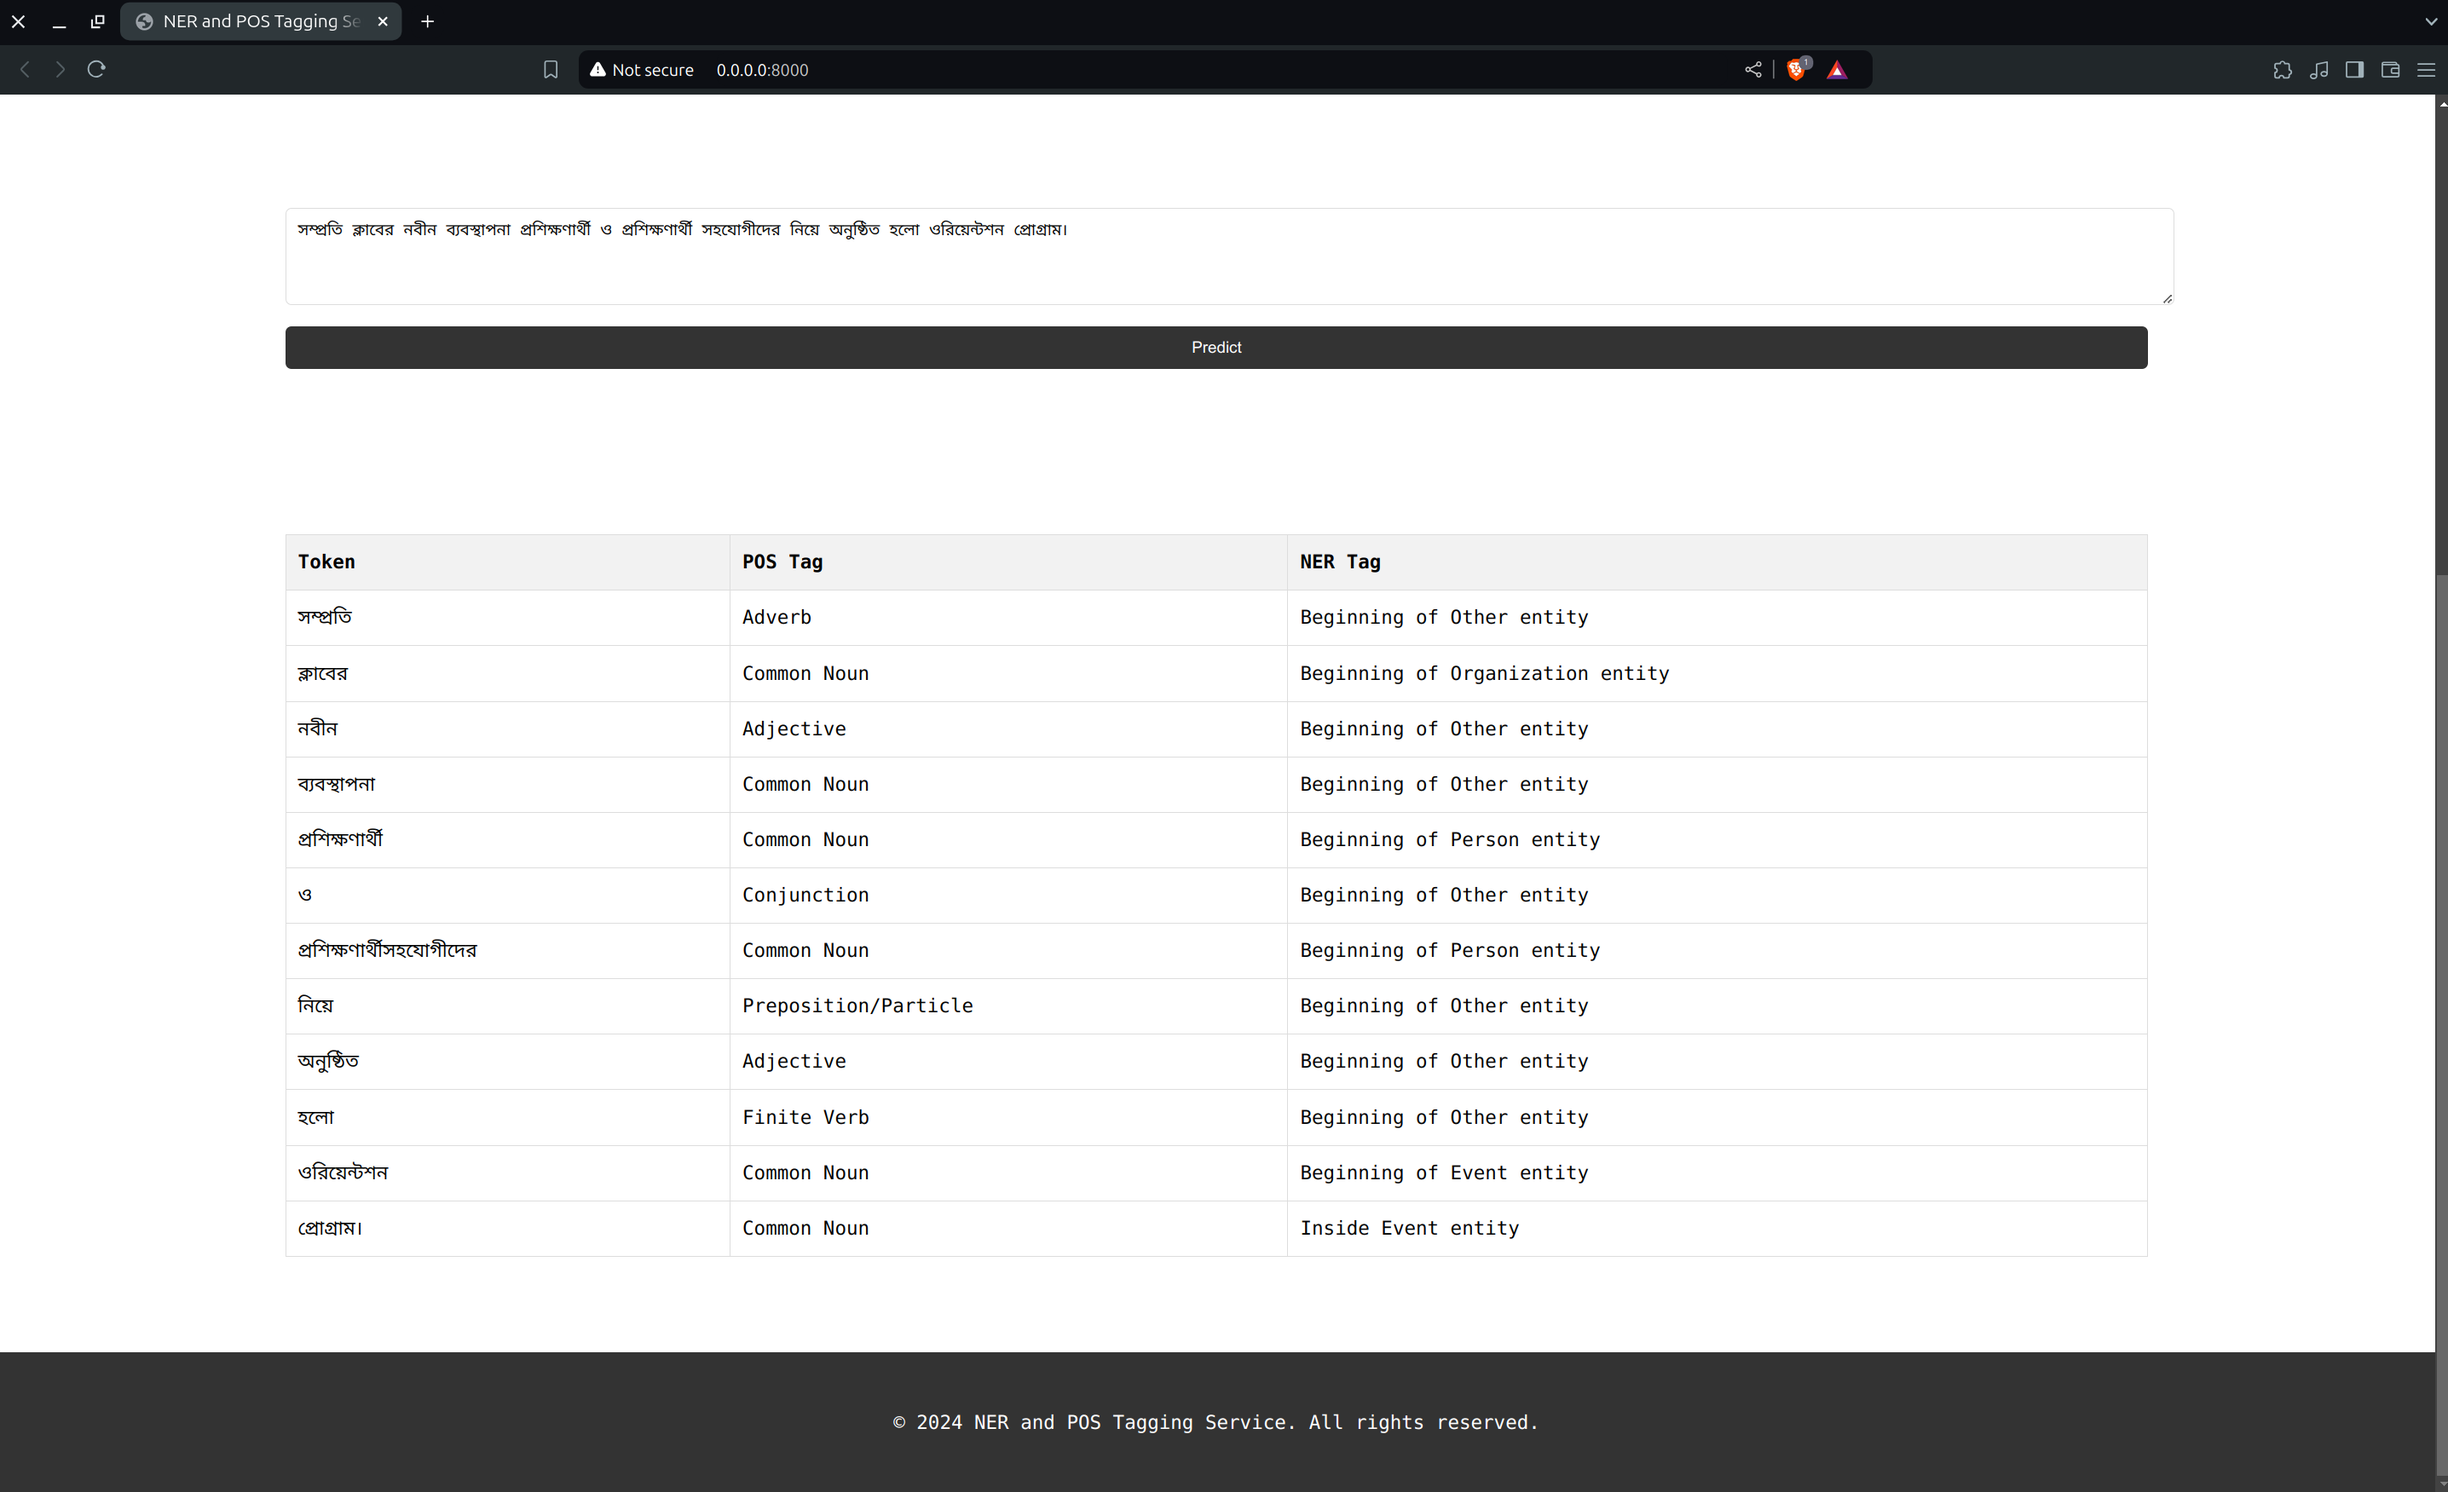
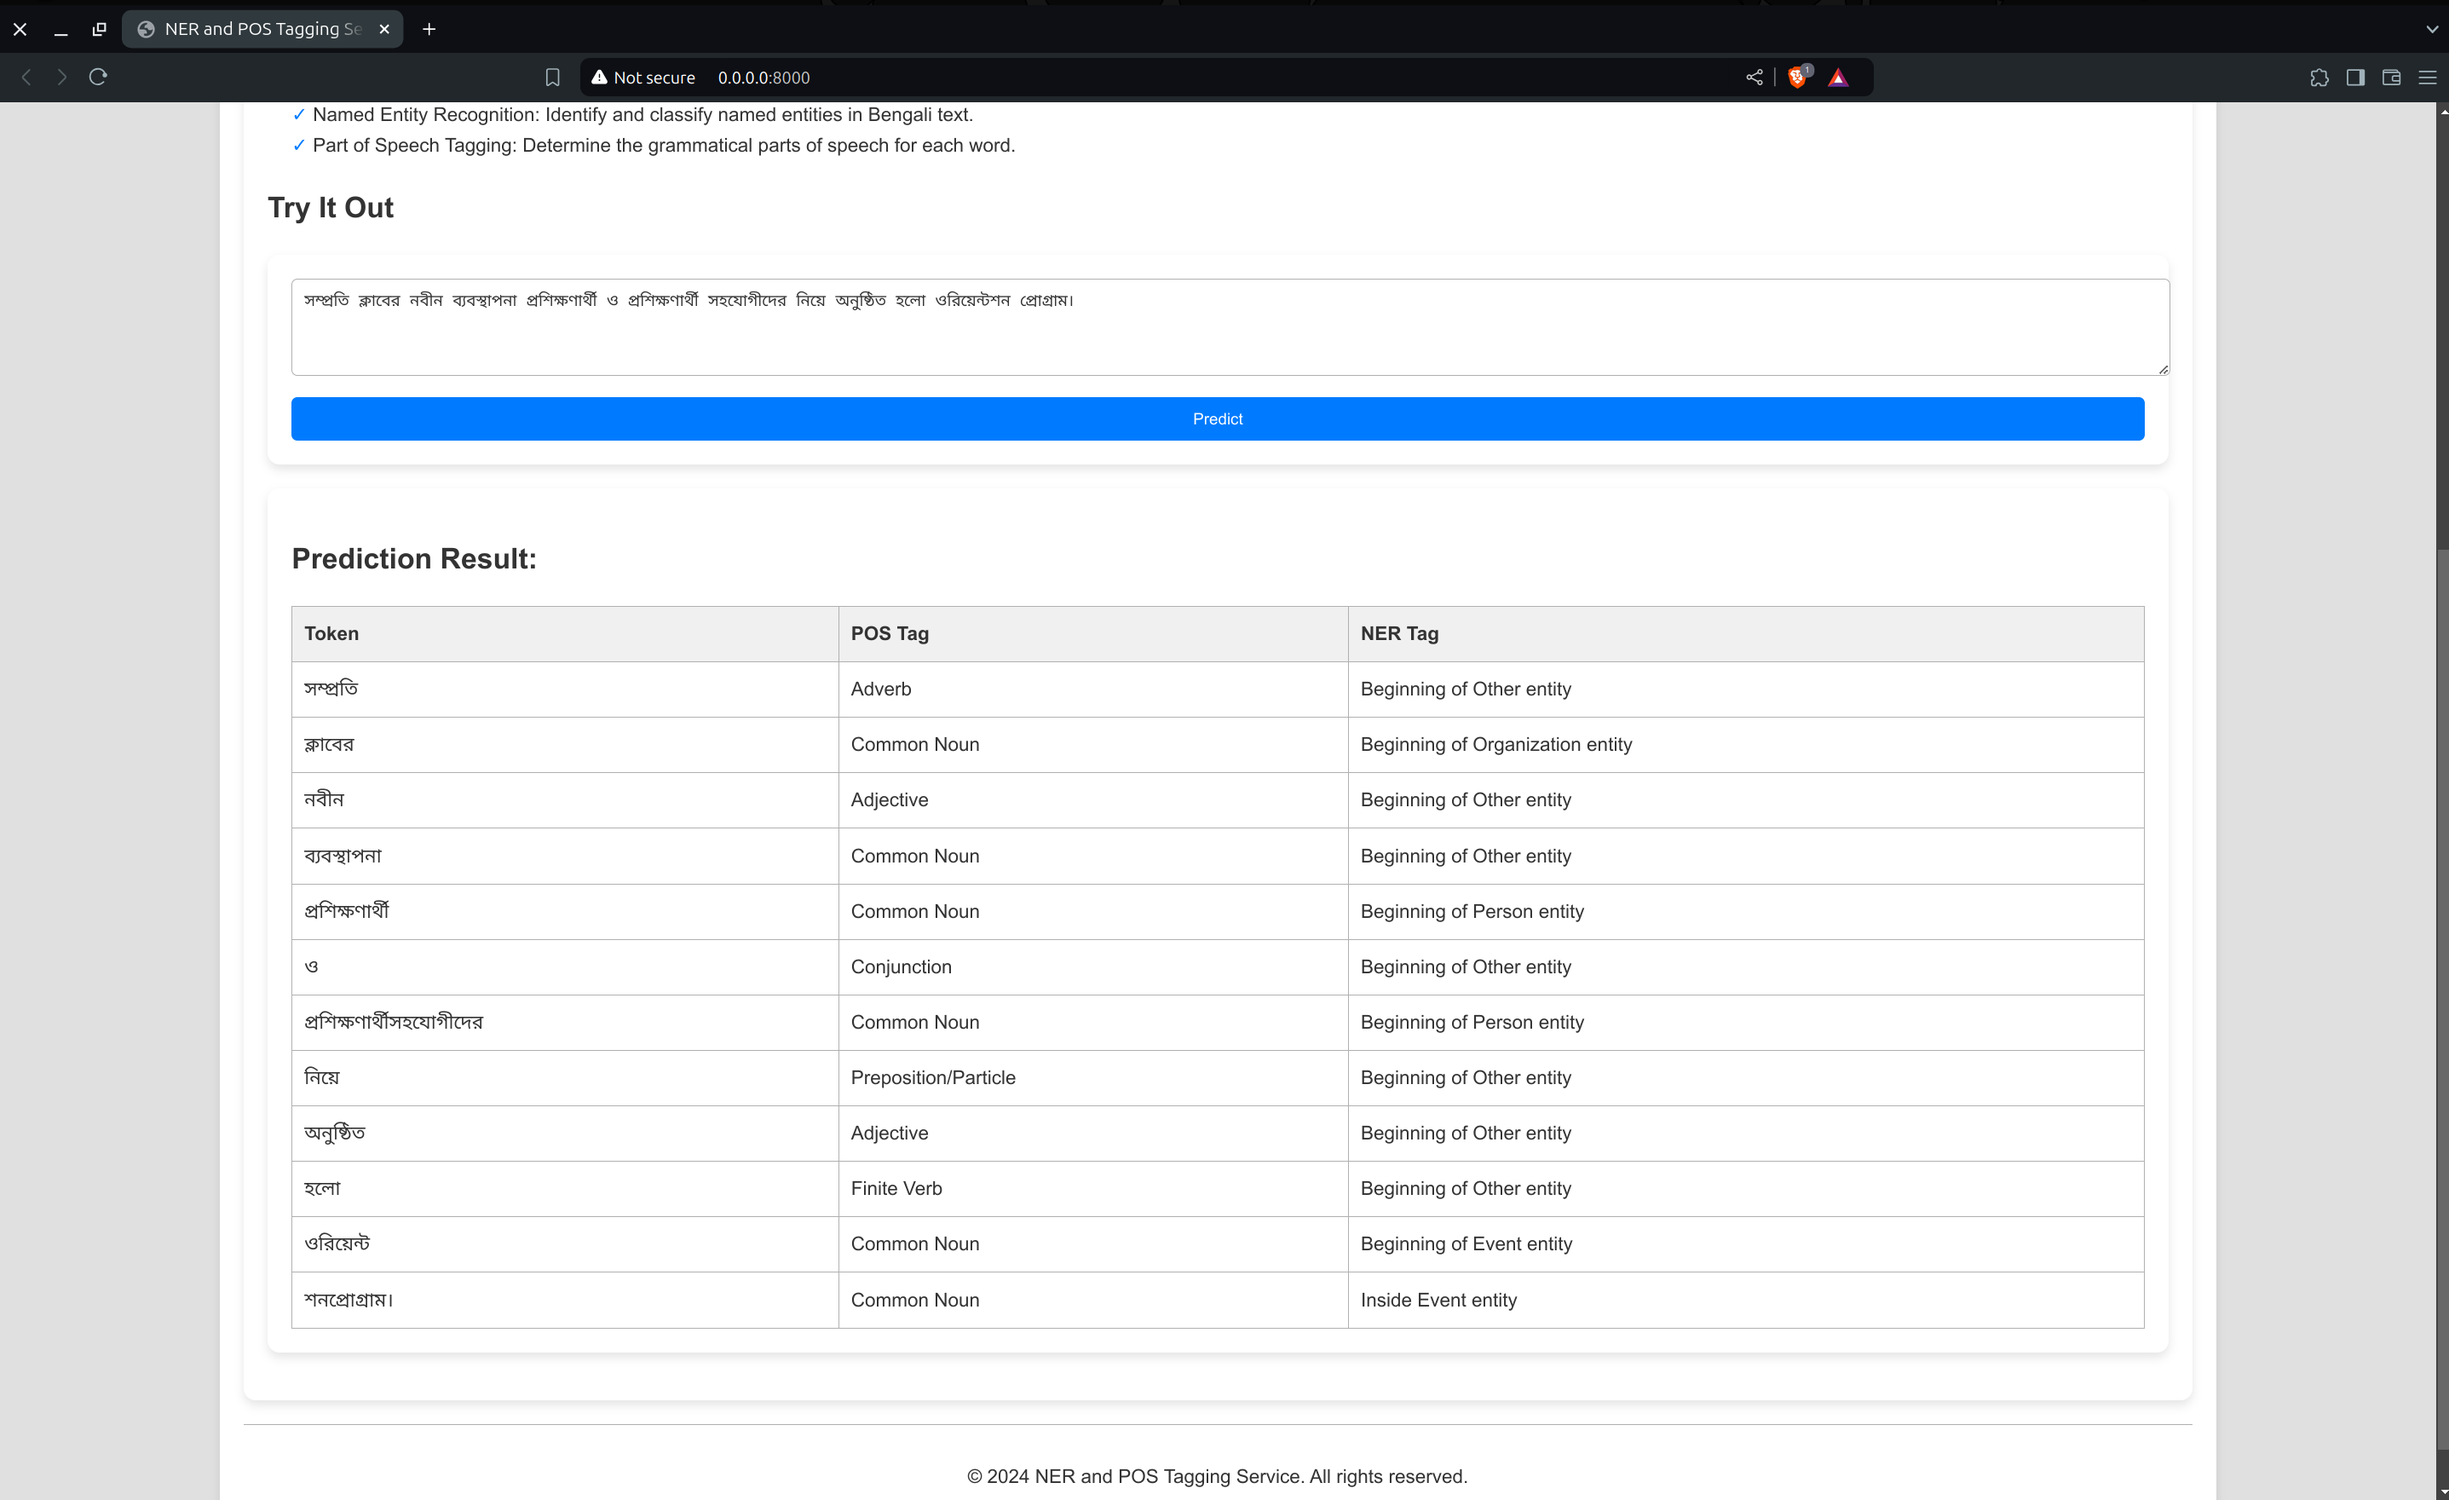
Modify FrontEnd

diff --git a/app/static/styles.css b/app/static/styles.css
@@ -1,43 +1,72 @@
+/* Base styles */
+:root {
+  --background: #e0e0e0; /* Mid-tone gray background for better contrast with blur effect */
+  --primary-bg: #ffffff; /* White for main content areas */
+  --primary-text: #333333; /* Dark grey text for readability */
+  --button-bg: #007bff; /* Bright blue for buttons */
+  --header-footer-bg: rgba(
+    255,
+    255,
+    255,
+    0.9
+  ); /* White with slight opacity for blur effect */
+  --border-color: #b0b0b0; /* Slightly darker grey border color */
+  --shadow-color: rgba(0, 0, 0, 0.1); /* Light shadow for subtle effects */
+}
+
+/* General body styling */
 body {
-  font-family: "Droid Sans Mono", "monospace", monospace;
+  font-family: Arial, sans-serif;
   line-height: 1.6;
   margin: 0;
   padding: 0;
-  background-color: #f4f4f4;
+  background: var(--background);
+  color: var(--primary-text);
+  transition: background 0.3s, color 0.3s;
 }
 
-header,
-footer {
-  width: 100%;
-  background: #333;
-  color: #fff;
-  padding: 20px 0;
-  text-align: center;
-}
-
+/* Container for content */
 .container {
   width: 80%;
   margin: auto;
   overflow: hidden;
   padding: 20px;
+  background: var(--primary-bg);
+  border-radius: 10px;
+  box-shadow: 0 4px 8px var(--shadow-color);
 }
 
+/* Header styling with blur effect */
+header {
+  background: var(--header-footer-bg);
+  color: var(--primary-text);
+  padding: 20px 0;
+  text-align: center;
+  backdrop-filter: blur(10px);
+  border-bottom: 1px solid var(--border-color);
+}
+
+/* Header and h2 styling */
 h1,
 h2 {
-  color: #fff;
+  color: var(--primary-text);
 }
 
+/* Main content styling */
 main {
-  background: #fff;
+  background: var(--primary-bg);
   padding: 20px;
   margin-top: 20px;
-  border-radius: 5px;
+  border-radius: 10px;
+  box-shadow: 0 4px 8px var(--shadow-color);
 }
 
+/* Section styling */
 section {
   margin-bottom: 20px;
 }
 
+/* List styling */
 ul {
   list-style-type: none;
   padding-left: 20px;
@@ -45,66 +74,66 @@ ul {
 
 li:before {
   content: "✓ ";
-  color: #4caf50;
+  color: var(--button-bg);
 }
 
-.button {
-  display: inline-block;
-  background: #4caf50;
-  color: #fff;
-  padding: 10px 20px;
-  text-decoration: none;
-  border-radius: 5px;
-  transition: background-color 0.3s;
-}
-
-.button:hover {
-  background: #45a049;
-}
-
-footer {
-  text-align: center;
-  padding: 10px 0;
-  background: #333;
-  color: #fff;
-}
-
-form {
-  background: #fff;
-  padding: 20px;
-  margin-bottom: 20px;
-  border-radius: 5px;
-}
-
-textarea {
-  width: 100%;
-  padding: 10px;
-  margin-bottom: 10px;
-  border: 1px solid #ddd;
-  border-radius: 5px;
-}
-
+/* Button styling */
 button {
   display: block;
   width: 100%;
   padding: 10px;
-  background: #333;
-  color: #fff;
+  background: var(--button-bg);
+  color: #ffffff;
   border: none;
   cursor: pointer;
   border-radius: 5px;
+  transition: background 0.3s;
 }
 
 button:hover {
-  background: #555;
+  background: #0056b3; /* Slightly darker blue for hover effect */
 }
 
-#result {
-  background: #fff;
+/* Footer styling with blur effect */
+footer {
+  text-align: center;
+  padding: 15px;
+  margin-top: 20px;
+  background: var(--header-footer-bg);
+  color: var(--primary-text);
+  backdrop-filter: blur(10px);
+  border-top: 1px solid var(--border-color);
+}
+
+/* Form styling */
+form {
+  background: var(--primary-bg);
   padding: 20px;
-  border-radius: 5px;
+  margin-bottom: 20px;
+  border-radius: 10px;
+  box-shadow: 0 4px 8px var(--shadow-color);
 }
 
+/* Textarea styling */
+textarea {
+  width: 100%;
+  padding: 10px;
+  margin-bottom: 10px;
+  border: 1px solid var(--border-color);
+  border-radius: 5px;
+  background: var(--primary-bg);
+  color: var(--primary-text);
+}
+
+/* Result styling */
+#result {
+  background: var(--primary-bg);
+  padding: 20px;
+  border-radius: 10px;
+  box-shadow: 0 4px 8px var(--shadow-color);
+}
+
+/* Table styling */
 table {
   width: 100%;
   border-collapse: collapse;
@@ -113,10 +142,11 @@ table {
 th,
 td {
   padding: 10px;
-  border: 1px solid #ddd;
+  border: 1px solid var(--border-color);
   text-align: left;
+  color: var(--primary-text);
 }
 
 th {
-  background-color: #f2f2f2;
+  background-color: #f0f0f0; /* Light grey for table headers */
 }

diff --git a/app/templates/index.html b/app/templates/index.html
@@ -7,29 +7,30 @@
     <link rel="stylesheet" href="{{ url_for('static', path='/styles.css') }}" />
   </head>
   <body>
-    <header>
-      <div class="container">
+    <div class="container">
+      <header>
         <h1>Welcome to NER and POS Tagging Service</h1>
-      </div>
-    </header>
-    <main>
-      <div class="container">
+      </header>
+      <main>
         <section>
           <h2>About Our Service</h2>
           <p>
-            This is a web application that provides Named Entity Recognition (NER)
-            and Part of Speech (POS) Tagging for text input in the Bengali
-            language. <br />
-            This was developed by
-            <a href="https://github.com/1666sApple">1666sApple</a> as a part of
+            This is a web application that provides Name Entity Recognition
+            (NER) and Part of Speech (POS) Tagging for text input in Bengali
+            language. Developed by
+            <a href="https://github.com/1666sApple">1666sApple</a> as part of
             the Bangla-NER project. <br />
-            This project uses the Bangla-NER model, which is a pre-trained
-            XLM-RoBERTa-base model for the Bengali language. <br />
-            The model is trained on a dataset of Bengali text that contains
-            about 7000 sentences and is able to accurately identify and classify
-            named entities and parts of speech. <br />
-            This model has achieved a POS Precision of about 93% and an NER Precision
-            of about 92%.
+            <br />
+            The project uses the Bangla-NER model, a pre-trained
+            xml-roberta-base model for the Bengali language. <br />
+            <br />
+            Trained on a dataset of Bengali text containing about 7000
+            sentences, it accurately identifies and classifies named entities
+            and parts of speech. <br />
+            <br />
+            The model has achieved a POS Precision of about 93% and NER
+            Precision of about 92% on the test data. <br />
+            <br />
           </p>
         </section>
         <section>
@@ -37,7 +38,7 @@
           <ul>
             <li>
               Named Entity Recognition: Identify and classify named entities in
-              text for the Bengali language.
+              Bengali text.
             </li>
             <li>
               Part of Speech Tagging: Determine the grammatical parts of speech
@@ -69,13 +70,11 @@
             </table>
           </div>
         </section>
-      </div>
-    </main>
-    <footer>
-      <div class="container">
+      </main>
+      <footer>
         <p>&copy; 2024 NER and POS Tagging Service. All rights reserved.</p>
-      </div>
-    </footer>
+      </footer>
+    </div>
     <script src="{{ url_for('static', path='/script.js') }}"></script>
   </body>
 </html>

diff --git a/app/templates/predict.html b/app/templates/predict.html
@@ -7,13 +7,11 @@
     <link rel="stylesheet" href="{{ url_for('static', path='/styles.css') }}" />
   </head>
   <body>
-    <header>
-      <div class="container">
+    <div class="container">
+      <header>
         <h1>NER and POS Prediction</h1>
-      </div>
-    </header>
-    <main>
-      <div class="container">
+      </header>
+      <main>
         <form id="predictionForm">
           <textarea
             id="inputSentence"
@@ -35,13 +33,11 @@
             <tbody></tbody>
           </table>
         </div>
-      </div>
-    </main>
-    <footer>
-      <div class="container">
-        <p>&copy; 2024 NER and POS Tagging Service. All rights reserved.</p>
-      </div>
-    </footer>
+      </main>
+      <footer>
+        <p>&copy; 2024 NER and POS Prediction. All rights reserved.</p>
+      </footer>
+    </div>
     <script src="{{ url_for('static', path='/script.js') }}"></script>
   </body>
 </html>
